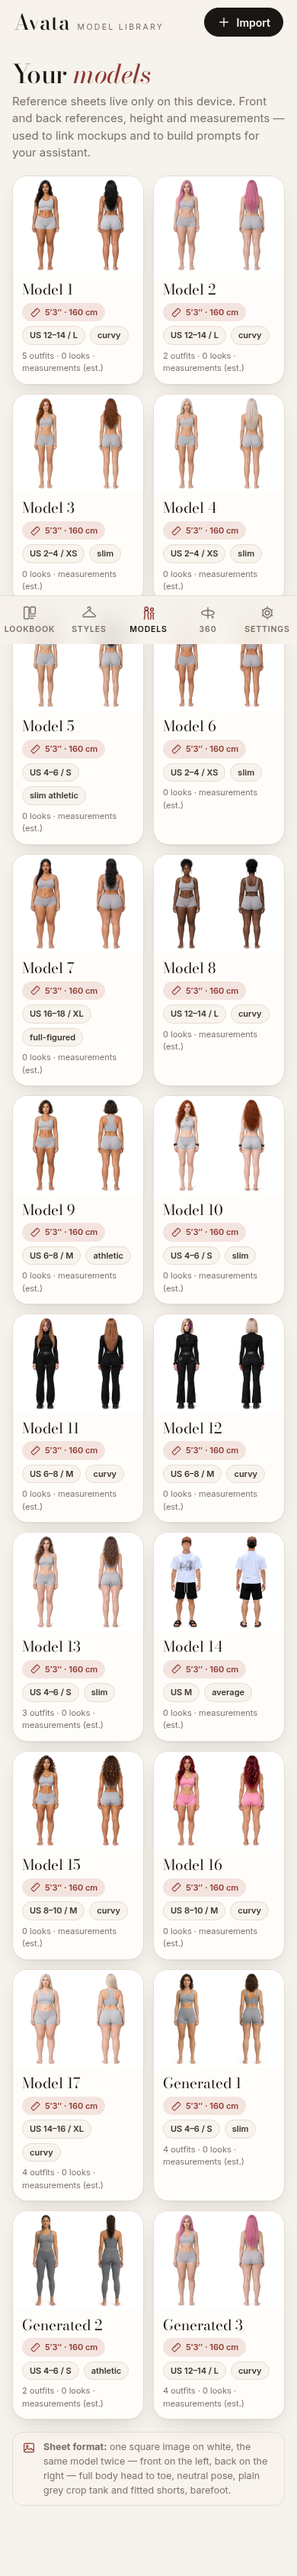
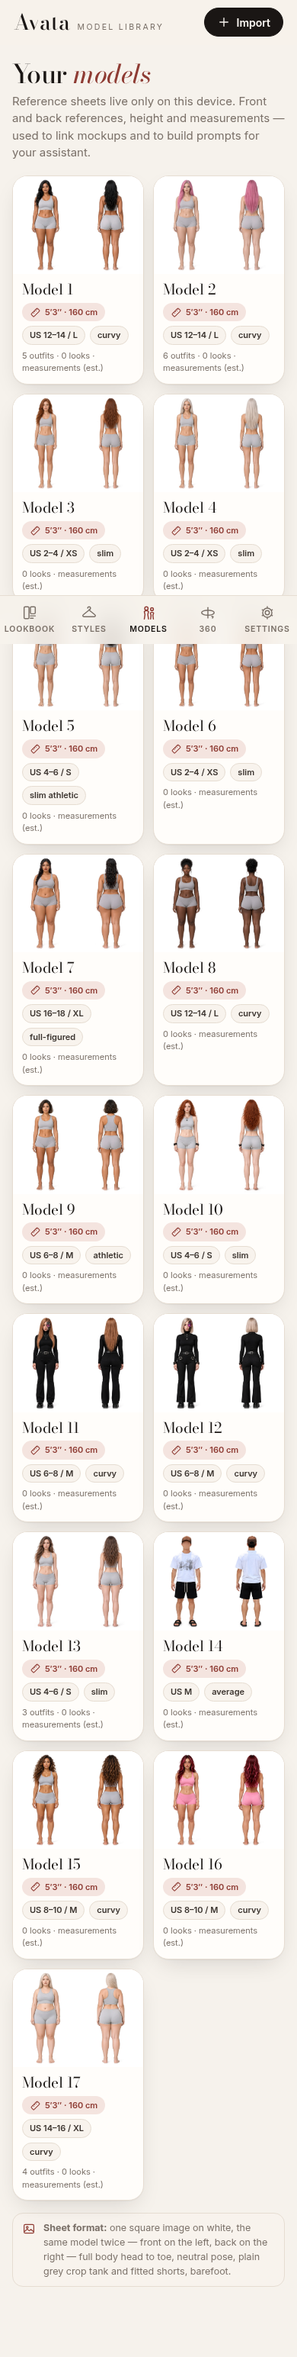
Remove Models 1, 3, 4, 5, 9, 10 (starter-exact-5, 7, 9, 10, 18, 19) once per install; lineup Model 1-6 (exact-6, 12, 13, 14, 21, 26), user names kept

Changed region(s): [[0.0308, 0.0, 0.9538, 0.9634]]

diff --git a/js/starters.js b/js/starters.js
@@ -7,28 +7,12 @@
 // 11, 15 and 16 (REMOVED_STARTER_IDS in starter-sync.js) and the rest were renumbered Model 1-8 by display name only (RELABEL;
 // ids are stable); exact-17 was added as Model 9, exact-18..22 as Model 10-14. Generated models (starter-generated-1..3)
 // followed; the Photorealistic starters (Photoreal 1-2) were removed on 2026-10-19 and the Generated ones on 2026-10-21 (REMOVED_STARTER_IDS). Ids are stable, so renumbering display names never needs another migration. The old
+// 2026-10-22 (Jordan): Model 1, 3, 4, 5, 9, 10 (exact-5, 7, 9, 10, 18, 19) removed; lineup Model 1-6 = exact-6, 12, 13, 14, 21, 26 (RELABEL).
 // starter-model-N ids are mapped to these on existing installs by renumberStarters() (see starter-sync.js).
 export const STARTERS = [
   {
-    // re-added 2026-10-18 from Jordan's corrected 6-view sheet (real back three-quarter view); new id, so existing
-    // installs gain her once via addNewStarters (the deleted old starter-model-5 is never brought back)
-    id: 'starter-exact-5', name: 'Model 1', file: 'exact-5', assetRev: '51325ea83e03', heightCm: 160, bodyType: 'curvy', size: '12–14 / L',
-    measurements: { bust: 40, waist: 32, hips: 44, inseam: 28 }, measureUnit: 'in', measurementsEstimated: true,
-    note: 'Long wavy black hair, deep tan skin',
-    // 2026-10-19 (Jordan): a second built-in outfit, Tank & shorts (generated with her own sheet as the reference); assetRev covers both
-    outfits: [
-      { id: 'base', name: 'Base', subtitle: 'Grey crop set', file: 'exact-5' },
-      { id: 'tank-shorts', name: 'Tank & shorts', subtitle: 'Black tank · shorts · sneakers', file: 'exact-5-tank-shorts' },
-      // 2026-10-19 (Jordan): Generated 2's Yoga set and Generated 1's Linen set, generated on her own sheet
-      { id: 'yoga-set', name: 'Yoga set', subtitle: 'Rose yoga set', file: 'exact-5-yoga-set' },
-      { id: 'linen-set', name: 'Linen set', subtitle: 'Sage tank · linen pants', file: 'exact-5-linen-set' },
-      // 2026-10-20 (Jordan): the same red dress as Model 17, generated on her own sheet
-      { id: 'red-dress', name: 'Red dress', subtitle: 'Red V-neck mini dress', file: 'exact-5-red-dress' },
-    ],
-  },
-  {
     // Models 6-16 added 2026-10-18 (8, 11, 15, 16 since removed) from Jordan's 6-view sheets (same pipeline as Model 1); existing installs gain them once
-    id: 'starter-exact-6', name: 'Model 2', file: 'exact-6', assetRev: '40a08b9f6a2a', heightCm: 160, bodyType: 'curvy', size: '12–14 / L',
+    id: 'starter-exact-6', name: 'Model 1', file: 'exact-6', assetRev: '40a08b9f6a2a', heightCm: 160, bodyType: 'curvy', size: '12–14 / L',
     measurements: { bust: 40, waist: 31, hips: 44, inseam: 28 }, measureUnit: 'in', measurementsEstimated: true,
     note: 'Long straight pink hair, fair skin',
     // 2026-10-19 (Jordan): Generated 2's Yoga set, generated on her own sheet; existing installs gain it in place (assetRev covers both)
@@ -44,48 +28,22 @@ export const STARTERS = [
     ],
   },
   {
-    id: 'starter-exact-7', name: 'Model 3', file: 'exact-7', assetRev: '5f4ee9be18ea', heightCm: 160, bodyType: 'slim', size: '2–4 / XS',
-    measurements: { bust: 32, waist: 24, hips: 34, inseam: 29 }, measureUnit: 'in', measurementsEstimated: true,
-    note: 'Long wavy auburn hair, fair skin',
-  },
-  {
-    id: 'starter-exact-9', name: 'Model 4', file: 'exact-9', assetRev: 'd740b1e55ed7', heightCm: 160, bodyType: 'slim', size: '2–4 / XS',
-    measurements: { bust: 33, waist: 24, hips: 35, inseam: 29 }, measureUnit: 'in', measurementsEstimated: true,
-    note: 'Long straight silver-platinum hair, fair skin',
-  },
-  {
-    id: 'starter-exact-10', name: 'Model 5', file: 'exact-10', assetRev: '276c5999ba5e', heightCm: 160, bodyType: 'slim athletic', size: '4–6 / S',
-    measurements: { bust: 34, waist: 25, hips: 36, inseam: 29 }, measureUnit: 'in', measurementsEstimated: true,
-    note: 'Long curly black hair, tan skin',
-  },
-  {
-    id: 'starter-exact-12', name: 'Model 6', file: 'exact-12', assetRev: '559ec56e6687', heightCm: 160, bodyType: 'slim', size: '2–4 / XS',
+    id: 'starter-exact-12', name: 'Model 2', file: 'exact-12', assetRev: '559ec56e6687', heightCm: 160, bodyType: 'slim', size: '2–4 / XS',
     measurements: { bust: 32, waist: 24, hips: 34, inseam: 29 }, measureUnit: 'in', measurementsEstimated: true,
     note: 'Black hair in a high bun, tan skin',
   },
   {
-    id: 'starter-exact-13', name: 'Model 7', file: 'exact-13', assetRev: '101376e95972', heightCm: 160, bodyType: 'full-figured', size: '16–18 / XL',
+    id: 'starter-exact-13', name: 'Model 3', file: 'exact-13', assetRev: '101376e95972', heightCm: 160, bodyType: 'full-figured', size: '16–18 / XL',
     measurements: { bust: 44, waist: 37, hips: 48, inseam: 28 }, measureUnit: 'in', measurementsEstimated: true,
     note: 'Long wavy black hair with braids, tan skin',
   },
   {
-    id: 'starter-exact-14', name: 'Model 8', file: 'exact-14', assetRev: '4f3301b5435a', heightCm: 160, bodyType: 'curvy', size: '12–14 / L',
+    id: 'starter-exact-14', name: 'Model 4', file: 'exact-14', assetRev: '4f3301b5435a', heightCm: 160, bodyType: 'curvy', size: '12–14 / L',
     measurements: { bust: 40, waist: 31, hips: 44, inseam: 28 }, measureUnit: 'in', measurementsEstimated: true,
     note: 'Natural curly hair in a high puff, deep brown skin',
   },
-  // added 2026-10-18 from Jordan's 6-view sheets (same pipeline); new stable ids exact-18..22, labels Model 10-14; existing installs gain them once
   {
-    id: 'starter-exact-18', name: 'Model 9', file: 'exact-18', assetRev: 'f9d35ab210eb', heightCm: 160, bodyType: 'slim', size: '4–6 / S',
-    measurements: { bust: 34, waist: 26, hips: 37, inseam: 30 }, measureUnit: 'in', measurementsEstimated: true,
-    note: 'Long curly red hair, freckles, fair skin, layered necklace',
-  },
-  {
-    id: 'starter-exact-19', name: 'Model 10', file: 'exact-19', assetRev: 'ea7997153b0b', heightCm: 160, bodyType: 'curvy', size: '6–8 / M',
-    measurements: { bust: 36, waist: 27, hips: 40, inseam: 30 }, measureUnit: 'in', measurementsEstimated: true,
-    note: 'Long straight copper hair, half-cyborg face (left side), black top and flared pants',
-  },
-  {
-    id: 'starter-exact-21', name: 'Model 11', file: 'exact-21', assetRev: '86e0dd266c1e', heightCm: 160, bodyType: 'slim', size: '4–6 / S',
+    id: 'starter-exact-21', name: 'Model 5', file: 'exact-21', assetRev: '86e0dd266c1e', heightCm: 160, bodyType: 'slim', size: '4–6 / S',
     measurements: { bust: 35, waist: 26, hips: 37, inseam: 30 }, measureUnit: 'in', measurementsEstimated: true,
     note: 'Long wavy brown hair, fair skin',
     // 2026-10-20 (Jordan): Beige Linen, from Jordan's own 6-view sheet (no generation); existing installs refresh her in place
@@ -98,7 +56,7 @@ export const STARTERS = [
   // (exact-23, 24 and 25, added 2026-10-19/20 as Model 15-17, were removed 2026-10-21)
   {
     // added 2026-10-21 (Jordan): Model 18 from Jordan's own 6-view sheets (no generation); existing installs gain her once. Base first; her outfits follow and refresh her in place (assetRev)
-    id: 'starter-exact-26', name: 'Model 12', file: 'exact-26', assetRev: 'b4b3f89abcad', heightCm: 160, bodyType: 'curvy', size: '8–10 / M',
+    id: 'starter-exact-26', name: 'Model 6', file: 'exact-26', assetRev: 'b4b3f89abcad', heightCm: 160, bodyType: 'curvy', size: '8–10 / M',
     measurements: { bust: 36, waist: 27, hips: 39, inseam: 30 }, measureUnit: 'in', measurementsEstimated: true,
     note: 'Long wavy blonde hair, fair skin, grey crop set',
     outfits: [

diff --git a/js/starter-sync.js b/js/starter-sync.js
@@ -108,7 +108,9 @@ export const REMOVED_STARTER_IDS = [...[1, 2, 3, 4, 8, 11, 15, 16].map(n => `sta
   // 2026-10-21 (Jordan): Model 9, 12 and 14 (exact-17, exact-20, exact-22) removed, dropped once the same way (new done-flag), never re-added
   'starter-exact-17', 'starter-exact-20', 'starter-exact-22',
   // 2026-10-21 (Jordan), same pass: the original Model 15, 16 and 17 (exact-23, exact-24, exact-25) removed too (flag removed-starters-2026-10-21c)
-  'starter-exact-23', 'starter-exact-24', 'starter-exact-25'];
+  'starter-exact-23', 'starter-exact-24', 'starter-exact-25',
+  // 2026-10-22 (Jordan): Model 1, 3, 4, 5, 9 and 10 (exact-5, 7, 9, 10, 18, 19) removed (flag removed-starters-2026-10-22)
+  'starter-exact-5', 'starter-exact-7', 'starter-exact-9', 'starter-exact-10', 'starter-exact-18', 'starter-exact-19'];
 
 /** What to do with a stored look after the removal: unchanged (same object), detached copy, or null (delete). */
 export const removedLook = look => {
@@ -125,21 +127,16 @@ export const removedKnown = known => Array.isArray(known) ? withKnown(known, REM
  * nothing can be duplicated or re-added). relabelStarters() (store.js) renames each starter record once, only if it still
  * has the old default name; a name the user chose is kept. User-created models (starter !== true) are never touched. */
 export const RELABEL = {
-  'starter-exact-5': { oldName: 'Model 5', name: 'Model 1' },
-  'starter-exact-6': { oldName: 'Model 6', name: 'Model 2' },
-  'starter-exact-7': { oldName: 'Model 7', name: 'Model 3' },
-  'starter-exact-9': { oldName: 'Model 9', name: 'Model 4' },
-  'starter-exact-10': { oldName: 'Model 10', name: 'Model 5' },
-  'starter-exact-12': { oldName: 'Model 12', name: 'Model 6' },
-  'starter-exact-13': { oldName: 'Model 13', name: 'Model 7' },
-  'starter-exact-14': { oldName: 'Model 14', name: 'Model 8' },
-  // 2026-10-21 (Jordan), after removing the original Model 9, 12, 14, 15, 16 and 17: continuous numbers again, Model 1-12
-  // (ids unchanged; user names kept), applied once under its own done-flag (relabel-2026-10-21c). oldName may list several
-  // defaults: Model 18 was briefly shipped as 'Model 15' (an install that saw that release has that name).
-  'starter-exact-18': { oldName: 'Model 10', name: 'Model 9' },
-  'starter-exact-19': { oldName: 'Model 11', name: 'Model 10' },
-  'starter-exact-21': { oldName: 'Model 13', name: 'Model 11' },
-  'starter-exact-26': { oldName: ['Model 18', 'Model 15'], name: 'Model 12' },
+  // 2026-10-22 (Jordan), after removing Model 1, 3, 4, 5, 9 and 10: continuous numbers again, Model 1-6 (ids unchanged; user names
+  // kept), applied once under its own done-flag (relabel-2026-10-22). oldName lists every default name the starter has shipped
+  // with, so an install that skipped earlier relabels (e.g. still 'Model 6' for exact-6) is renamed too. Earlier rounds: 2026-10-18
+  // (old Model 5..14 -> 1..8) and 2026-10-21 (exact-18, 19, 21, 26 -> Model 9-12).
+  'starter-exact-6': { oldName: ['Model 6', 'Model 2'], name: 'Model 1' },
+  'starter-exact-12': { oldName: ['Model 12', 'Model 6'], name: 'Model 2' },
+  'starter-exact-13': { oldName: ['Model 13', 'Model 7'], name: 'Model 3' },
+  'starter-exact-14': { oldName: ['Model 14', 'Model 8'], name: 'Model 4' },
+  'starter-exact-21': { oldName: ['Model 13', 'Model 11'], name: 'Model 5' },
+  'starter-exact-26': { oldName: ['Model 18', 'Model 15', 'Model 12'], name: 'Model 6' },
 };
 
 /** Stored record after the relabel: the same object when nothing changes (not a starter, user-chosen name, already done). */

diff --git a/js/store.js b/js/store.js
@@ -137,7 +137,7 @@ export async function renumberStarters(force = false) {
  *  removed, the user's own looks of them are kept and detached. Their ids are recorded in knownStarters (never re-added).
  *  Idempotent; the done-flag is set last. force=true re-runs it (after importing an older backup). */
 export async function removeStarters(force = false) {
-  if (!force && await db.get('kv', 'removed-starters-2026-10-21c')) return;   // fourth round (Model 9, 12, 14, 15, 16, 17) under a new flag; idempotent   // third round (Generated 1-3) under a new flag; idempotent
+  if (!force && await db.get('kv', 'removed-starters-2026-10-22')) return;   // fifth round (Model 1, 3, 4, 5, 9, 10 of 2026-10-22) under a new flag; idempotent   // third round (Generated 1-3) under a new flag; idempotent
   // an older install without a known list yet: record it now (from the records it holds), so the removed ids are recorded too
   if ((await db.get('kv', 'seeded')) && !Array.isArray(await db.get('kv', 'knownStarters'))) await db.put('kv', initialKnownStarters(await db.all('models')), 'knownStarters');
   for (const id of REMOVED_STARTER_IDS) { const m = await db.get('models', id); if (m && m.starter === true) await db.del('models', id); }
@@ -147,16 +147,16 @@ export async function removeStarters(force = false) {
   }
   const known = await db.get('kv', 'knownStarters');
   if (Array.isArray(known)) await db.put('kv', removedKnown(known), 'knownStarters');
-  await db.put('kv', true, 'removed-starters-2026-10-18'); await db.put('kv', true, 'removed-starters-2026-10-19'); await db.put('kv', true, 'removed-starters-2026-10-21'); await db.put('kv', true, 'removed-starters-2026-10-21b'); await db.put('kv', true, 'removed-starters-2026-10-21c');
+  await db.put('kv', true, 'removed-starters-2026-10-18'); await db.put('kv', true, 'removed-starters-2026-10-19'); await db.put('kv', true, 'removed-starters-2026-10-21'); await db.put('kv', true, 'removed-starters-2026-10-21b'); await db.put('kv', true, 'removed-starters-2026-10-21c'); await db.put('kv', true, 'removed-starters-2026-10-22');
 }
 
 /** One-time (per install) relabel of the remaining exact starters to Model 1-8 (old Model 5, 6, 7, 9, 10, 12, 13, 14; ids
  *  unchanged). Only a starter record still carrying its old default name is renamed; user names, user models and every
  *  other field are kept. Idempotent; force=true re-runs it (after importing an older backup). */
 export async function relabelStarters(force = false) {
-  if (!force && await db.get('kv', 'relabel-2026-10-21c')) return;   // second relabel (after removing Model 9, 12, 14, 15, 16, 17) under a new flag
+  if (!force && await db.get('kv', 'relabel-2026-10-22')) return;   // third relabel (Model 1-6, after the 2026-10-22 removal) under a new flag
   for (const id of Object.keys(RELABEL)) { const m = await db.get('models', id); const r = relabeledStarter(m); if (r && r !== m) await db.put('models', r); }
-  await db.put('kv', true, 'relabel-2026-10-18'); await db.put('kv', true, 'relabel-2026-10-21'); await db.put('kv', true, 'relabel-2026-10-21c');
+  await db.put('kv', true, 'relabel-2026-10-18'); await db.put('kv', true, 'relabel-2026-10-21'); await db.put('kv', true, 'relabel-2026-10-21c'); await db.put('kv', true, 'relabel-2026-10-22');
 }
 
 export async function seedSamples(force = false) {

diff --git a/sw.js b/sw.js
@@ -3,7 +3,7 @@
 // offline fallback) so a new deploy is never served stale; big images/fonts are cache-first. Cross-origin requests
 // (only the optional BYOK APIs) are never touched. skipWaiting + clients.claim, so a new version takes over at once;
 // js/update.js then reloads the page when it's safe.
-const VERSION = '2026.10.22-040903-1c104ac';
+const VERSION = '2026.10.22-052847-cef63a1';
 const CACHE = `avata-${VERSION}`;
 const SHELL = [
   './', 'index.html', 'styles.css', 'manifest.webmanifest',
@@ -13,7 +13,7 @@ const SHELL = [
   'assets/samples/sketch-tank.svg', 'assets/samples/sketch-short.svg', 'assets/samples/sketch-set.svg',
   'assets/fonts/bodoni-moda.woff2', 'assets/fonts/bodoni-moda-italic.woff2',
   'icons/icon-192.png', 'icons/icon-512.png', 'icons/apple-touch-icon.png', 'icons/favicon-64.png',
-  ...[...[5, 6, 7, 9, 10, 12, 13, 14, 18, 19, 21, 26].map(n => `exact-${n}`), 'exact-5-tank-shorts', 'exact-5-yoga-set', 'exact-5-linen-set', 'exact-5-red-dress', 'exact-6-yoga-set', 'exact-6-turtleneck', 'exact-6-slip-dress', 'exact-6-tank-shorts', 'exact-6-usa-jersey', 'exact-21-beige-linen', 'exact-21-a', 'exact-26-outfit-1', 'exact-26-outfit-2', 'exact-26-outfit-3', 'exact-26-outfit-4', 'exact-26-outfit-5', 'exact-26-outfit-6', 'exact-26-outfit-7', 'exact-26-outfit-8', 'exact-26-outfit-9', 'exact-26-outfit-10', 'exact-26-outfit-11', 'exact-26-outfit-12', 'exact-26-outfit-13', 'exact-26-outfit-14', 'exact-26-outfit-15', 'exact-26-outfit-16'].flatMap(m => ['sheet', 'front', 'back', 'thumb'].map(k => `assets/models/${m}-${k}.webp`)),
+  ...[...[6, 12, 13, 14, 21, 26].map(n => `exact-${n}`), 'exact-6-yoga-set', 'exact-6-turtleneck', 'exact-6-slip-dress', 'exact-6-tank-shorts', 'exact-6-usa-jersey', 'exact-21-beige-linen', 'exact-21-a', 'exact-26-outfit-1', 'exact-26-outfit-2', 'exact-26-outfit-3', 'exact-26-outfit-4', 'exact-26-outfit-5', 'exact-26-outfit-6', 'exact-26-outfit-7', 'exact-26-outfit-8', 'exact-26-outfit-9', 'exact-26-outfit-10', 'exact-26-outfit-11', 'exact-26-outfit-12', 'exact-26-outfit-13', 'exact-26-outfit-14', 'exact-26-outfit-15', 'exact-26-outfit-16'].flatMap(m => ['sheet', 'front', 'back', 'thumb'].map(k => `assets/models/${m}-${k}.webp`)),
 ];
 // cache:'reload' bypasses the HTTP cache (GitHub Pages sends max-age=600) so a new version never precaches old files
 self.addEventListener('install', e => { self.skipWaiting(); e.waitUntil(caches.open(CACHE).then(c => c.addAll(SHELL.map(u => new Request(u, { cache: 'reload' }))))); });

diff --git a/js/app.js b/js/app.js
@@ -10,7 +10,7 @@ import { renderSpin } from './spin-view.js';
 import { initUpdates } from './update.js';
 
 // VERSION is stamped automatically by the pre-commit hook (.githooks/pre-commit). Do not edit by hand.
-export const VERSION = '2026.10.22-040903-1c104ac';
+export const VERSION = '2026.10.22-052847-cef63a1';
 
 const TITLES = { looks: 'Lookbook', 'import-looks': 'Import mockups', styles: 'Catalog', style: 'Style', 'style-edit': 'Style', models: 'Model Library', model: 'Model', 'import-model': 'Import model', studio: 'Prompt builder', spin: '360 spin', settings: 'Settings' };
 const TAB_OF = { looks: 'looks', 'import-looks': 'looks', styles: 'styles', style: 'styles', 'style-edit': 'styles', models: 'models', model: 'models', 'import-model': 'models', studio: 'models', spin: 'spin', settings: 'settings' };

diff --git a/README.md b/README.md
@@ -116,3 +116,5 @@ Starter re-sync e2e: `python3 tools/e2e_starters.py` (installs the previous rele
 **360 Outfits dropdown (2026-10-21):** the outfit chips on the viewer were replaced by an "Outfits" button under it (every gallery model, Base first and selected by default); it opens a grid of cards the size of the model cards, each with that outfit's front (0°) frame (lazy) and its name only; picking one collapses it and swaps the outfit into the spin, keeping the angle. Gallery model cards in the 360 switcher show the name only (no description).
 
 **360 outfits integrated into the model row (2026-10-22):** no Outfits button. Gallery model cards are the same card as the outfit cards (Base front view + name, ~78px x 96px). Tapping a model selects her (Base) and opens her outfit gallery right under the row (outlined, with a notch under her card); tapping her again closes/reopens it; picking an outfit closes it and swaps the outfit into the spin, keeping the angle.
+
+**Removed Models 1, 3, 4, 5, 9, 10 (2026-10-22):** `starter-exact-5` (incl. its Tank & shorts / Yoga set / Linen set / Red dress files), `-7`, `-9`, `-10`, `-18`, `-19` added to `REMOVED_STARTER_IDS` (dropped once per install under the `removed-starters-2026-10-22` flag, never re-added; their app-seeded sample looks removed, the user's own looks kept and detached; files archived in the gallery's work/removed-models). The survivors were renumbered by display name only, no gaps: exact-6, 12, 13, 14, 21, 26 = Model 1-6 (`RELABEL`, once under `relabel-2026-10-22`; `oldName` lists every earlier default name so an install from any earlier release is renamed; user names kept).
